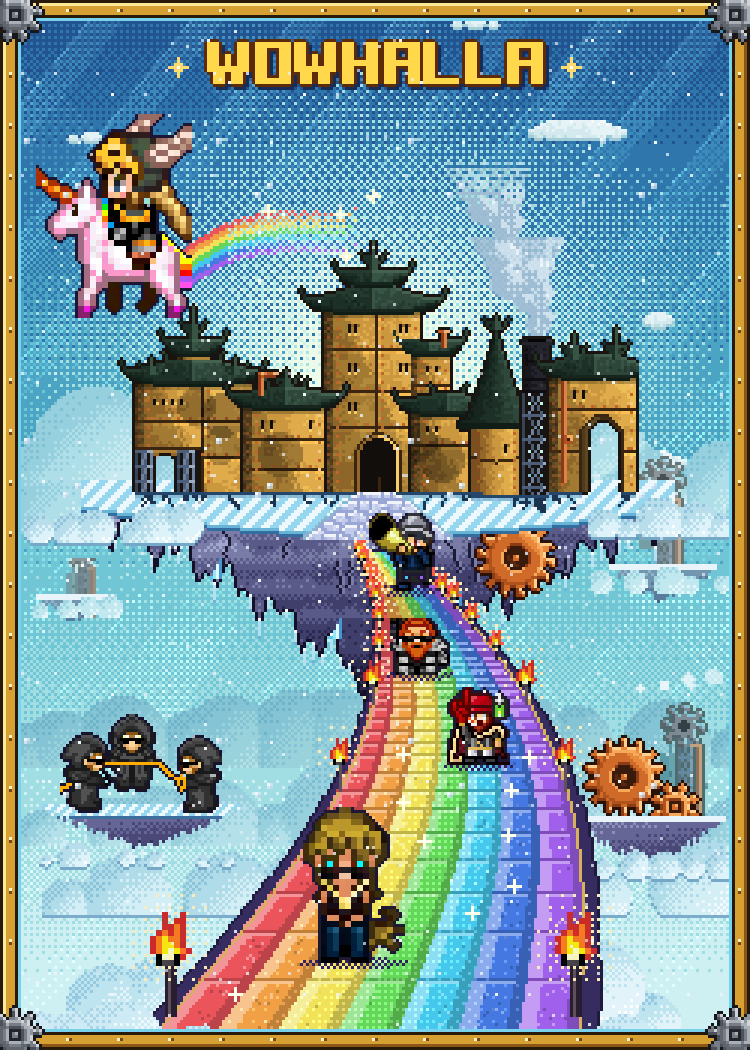
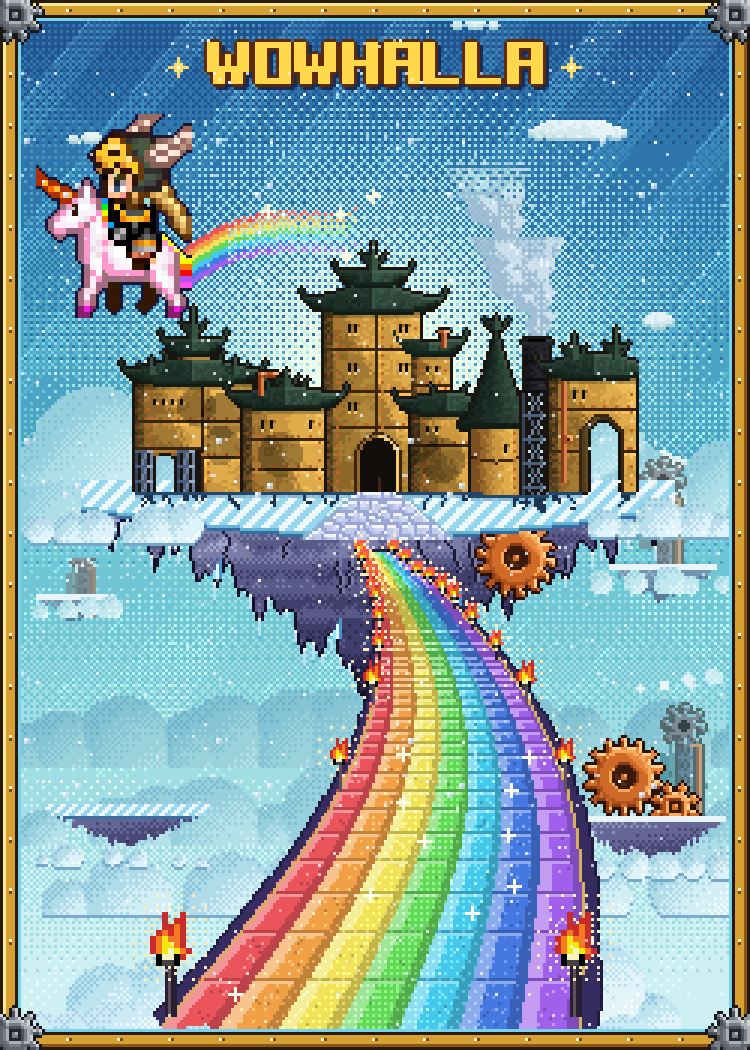
Wowhalla-Sleeve: Figuren außer Wowkyrie entfernt
Hipdall, Swagdri, Thorad und Freshya auf der Brücke sowie die Nornstellar
auf der Eisscholle sind raus; Wowkyrie am Himmel bleibt.

Claude-Session: https://claude.ai/code/session_01QU6zaF1CRhUbwqrjdbxehJ

Changed region(s): [[0.0613, 0.6705, 0.3067, 0.8533], [0.4907, 0.4876, 0.7053, 0.7314], [0.3987, 0.7619, 0.552, 0.9448]]

diff --git a/scripts/sleeve-entwuerfe/s05_cool.py b/scripts/sleeve-entwuerfe/s05_cool.py
@@ -1,6 +1,6 @@
 # -*- coding: utf-8 -*-
 """05 Wowhalla – Die Halle der Coolness auf ihrer Wolkeninsel, Bifab-Regenbogenbrücke mit Fackeln,
-Helden des Cool-Archetyps auf dem Weg zur Halle, Wowkyrie am Himmel."""
+Wowkyrie am Himmel."""
 from lib import *
 
 rnd = random.Random(5)
@@ -357,27 +357,9 @@ comp(im, mini_island(52, 16, 9, MIDP), GIX, GIY)
 comp(im, steamify(area('wowhalla/steam')), GIX + 12, GIY - 50)
 comp(im, cloud3d(64, 16, bank(64, 16, 6, 51, 4, 8), CL, rim=(118, 168, 200)), GIX - 8, GIY + 6)
 
-# Die Nornstellar auf einer Eisscholle (links)
-nvn = native('The Nornstellar, Foretellers of Coolness')
-
-
-def norn_bg(a):
-    r, g, b = a[..., 0], a[..., 1], a[..., 2]; L = a[..., :3].mean(2)
-    m = ((b > 200) & (L > 150)) | ((r - b > 70) & (g > 120)) | ((r > g) & (g > b) & (r - b > 40) & (L > 70) & (L < 170)) | ((b > r + 30) & (L < 120))
-    return m & ~((b < 40) & (r > 220))
-
-
-norn = cut_by(nvn, (14, 10, 68, 44), norn_bg)
-na = np.array(norn); nm = na[..., 3] > 0
-nL = na[..., :3].astype(int).mean(2)
-nm[0:4, 26:30] &= nL[0:4, 26:30] > 30
-nm[0:13, 36:45] &= nL[0:13, 36:45] > 30
-lab, k = ndimage.label(nm); sz = ndimage.sum(nm, lab, range(1, k + 1)); nm = np.isin(lab, np.where(sz > 10)[0] + 1)
-na[..., 3] = np.where(nm, 255, 0)
-norn = Image.fromarray(na); norn = norn.crop(norn.getbbox())
-norn = outline(norn, (24, 20, 46, 255))
+# Eisscholle (links)
 FX, FY = 14, 268
-floe_w = norn.width + 12
+floe_w = 56
 floe = mini_island(floe_w, 14, 13, MIDP)
 fa = np.array(floe)
 fy_, fx_ = np.mgrid[0:fa.shape[0], 0:fa.shape[1]]
@@ -386,7 +368,6 @@ fa[top & (((fx_ + fy_) // 2) % 2 == 0)] = (150, 214, 238, 255)
 fa[top & (((fx_ + fy_) // 2) % 2 == 1)] = (236, 248, 252, 255)
 fa[(fy_ == 4) & (fa[..., 3] > 0)] = (60, 110, 160, 255)
 comp(im, Image.fromarray(fa), FX, FY)
-comp(im, norn, FX + 6, FY - norn.height + 3)
 comp(im, cloud3d(floe_w + 16, 14, bank(floe_w + 16, 14, 6, 52, 3, 7), CL, rim=(118, 168, 200)), FX - 10, FY + 8)
 
 # ---------------------------------------------------------------- Bifab – Regenbogenbrücke (perspektivisch)
@@ -508,60 +489,12 @@ for _ in range(10):
     w = road_w(y); x = road_x(y) - w / 2 + rs2.uniform(0.1, 0.9) * w
     sparkle(dsp, int(x), y, 2 if w > 60 else 1, (255, 255, 230))
 
-# ---------------------------------------------------------------- Helden auf der Brücke
-
-
-def hero(name, box, bl, fix=None):
-    c = cut_native(native(name), box, barrier_lum=bl)
-    if fix:
-        c = fix(c)
-    c = keep_largest(c)
-    return c.crop(c.getbbox())
-
-
-def fix_sw(c):
-    a = np.array(c).astype(int)
-    a[0:2, :, 3] = 0
-    a[(a[..., 2] > a[..., 0] + 30), 3] = 0
-    return Image.fromarray(a.astype(np.uint8))
-
-
-def fix_th(c):
-    a = np.array(c).astype(int); L = a[..., :3].mean(2)
-    a[(a[..., 1] > a[..., 0] + 5) & (L < 95), 3] = 0
-    return Image.fromarray(a.astype(np.uint8))
-
-
-hip = hero('Hipdall, Protector of Coolness', (25, 8, 50, 36), 70)
-fre = hero('Freshya, Beauty of Coolness', (29, 13, 49, 41), 90)
-swa = hero('Swagdri, Forger of Coolness', (29, 20, 49, 42), 90, fix_sw)
-tho = hero('Thorad, Strength of Coolness', (33, 11, 54, 38), 70, fix_th)
-
-
-def on_road(sprite, y, f=0.5, flip=False, k=1):
-    w = road_w(y); x = road_x(y) - w / 2 + f * w
-    s = sprite.transpose(Image.FLIP_LEFT_RIGHT) if flip else sprite
-    if k > 1:
-        s = scale2x(s)
-    s = outline(s, (30, 24, 50, 255))
-    sh = Image.new('RGBA', (s.width + 2, 4), (0, 0, 0, 0))
-    ImageDraw.Draw(sh).ellipse((0, 0, s.width + 1, 3), fill=(50, 34, 96, 255))
-    shm = np.array(sh); shm[..., 3] = np.where(dither_mask(None, np.full(shm.shape[:2], 0.5)) & (shm[..., 3] > 0), 255, 0)
-    comp(im, Image.fromarray(shm), x - s.width // 2 - 1, y - 1)
-    comp(im, s, x - s.width // 2, y - s.height + 1)
-
-
 items = []
 for y in TORCH_ROWS:
     items.append((y, 'torch', None))
-items += [(Y0 + 12, 'hero', (hip, 0.5, False, 1)), (Y0 + 40, 'hero', (swa, 0.35, False, 1)),
-          (Y0 + 70, 'hero', (tho, 0.62, True, 1)), (Y0 + 136, 'hero', (fre, 0.38, False, 2))]
 items.sort(key=lambda it: it[0])
 for (y, kind, arg) in items:
-    if kind == 'torch':
-        torch_at(y, -1); torch_at(y, 1)
-    else:
-        on_road(arg[0], y, arg[1], arg[2], arg[3])
+    torch_at(y, -1); torch_at(y, 1)
 
 
 # ---------------------------------------------------------------- Vordergrund-Wolken
